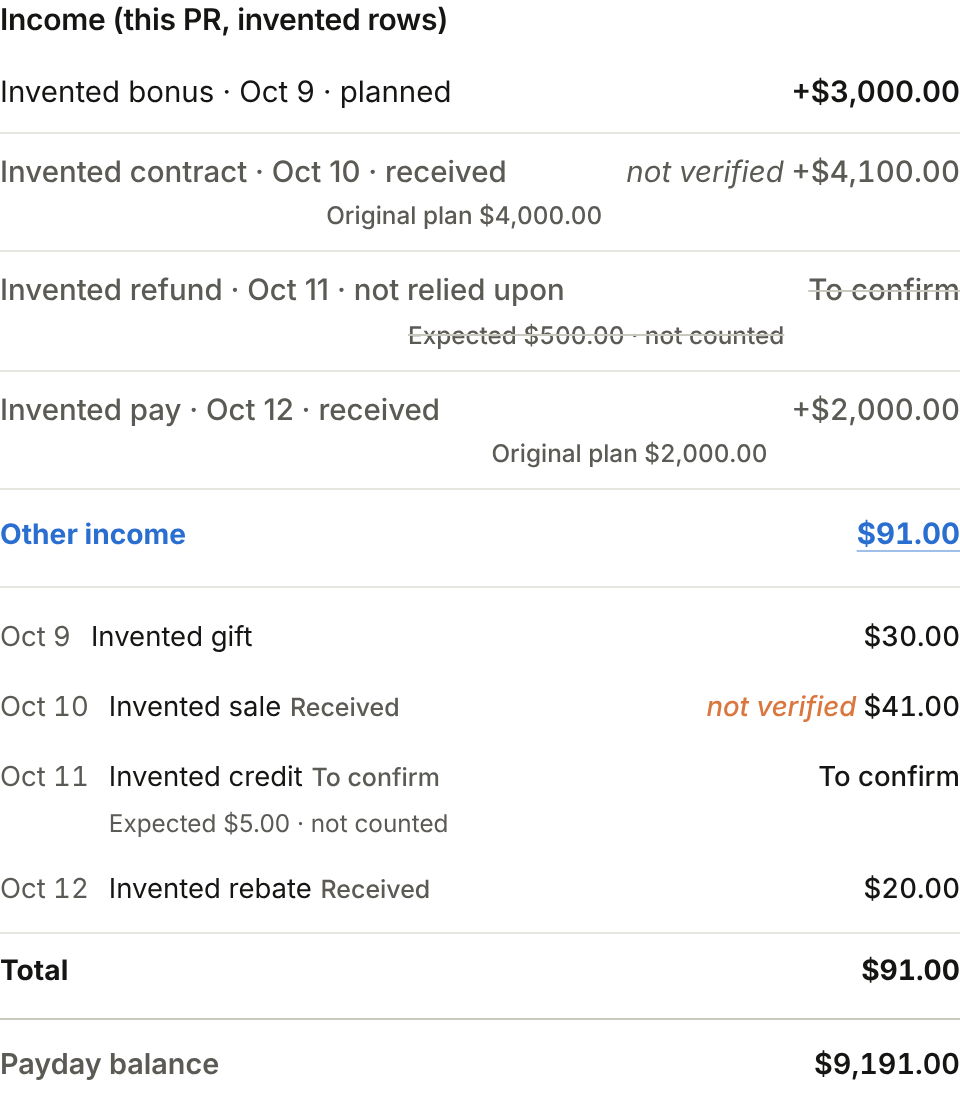
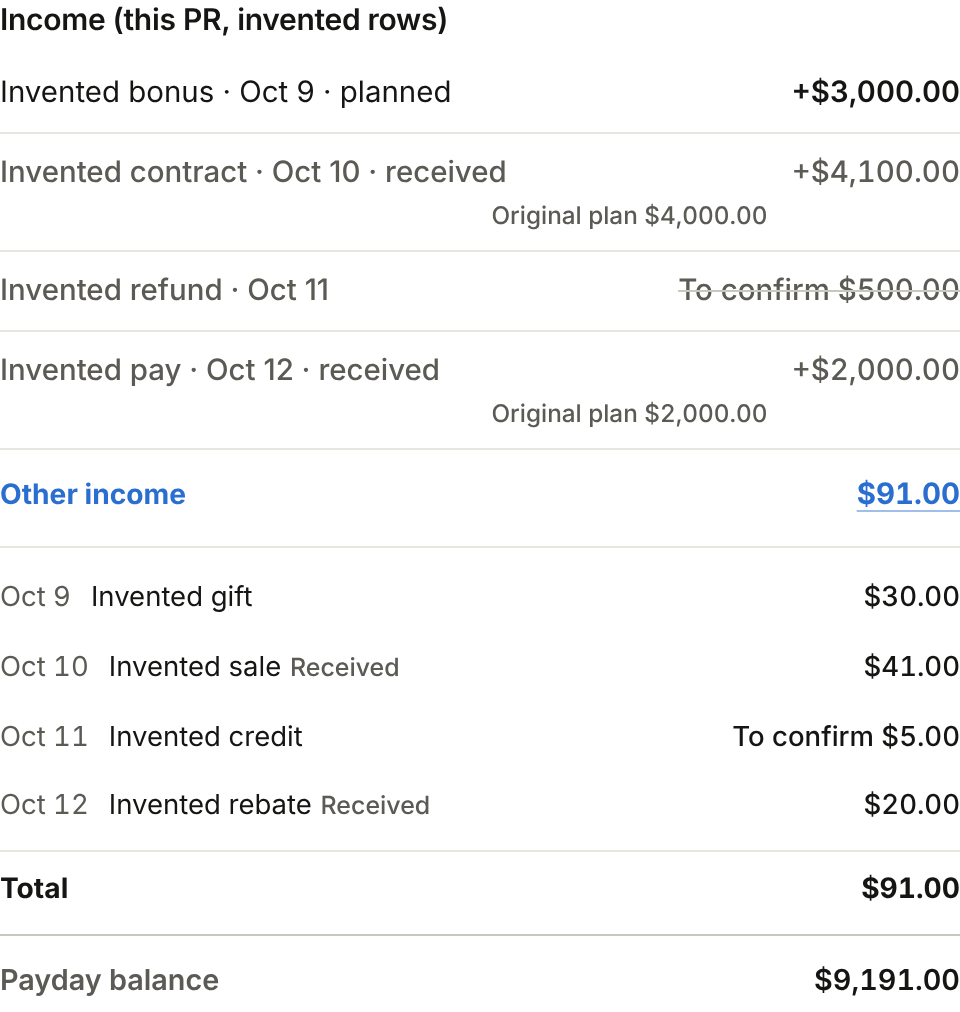
Update the authority row wording and the after screenshot for To confirm $X
Claude-Session: https://claude.ai/code/session_01B4JZd2p62DFEdezmiBAx9p

diff --git a/ARCHITECTURE.md b/ARCHITECTURE.md
@@ -1079,7 +1079,7 @@ closed: `Forecast.expandEvents` is the one cash calendar.
 | Effective date of represented cash movement | `Forecast.representedEventEffectiveBy` qualifies optional `effectiveAsOf` on each `plan.opening.representedEvents` / `opts.representedEvents` entry before the incumbent occurrence rules apply. It means the earliest cash opening proven to include the movement, independently of scheduled due date, intent confirmation or issuer receipt. An explicit date must be a real `YYYY-MM-DD` on or before the cash-walk opening; a later or invalid date cannot suppress replay or publish represented status. Legacy `{id,date}` entries retain their existing assertion that the movement is already inside the attached opening; absence is not a way to encode a newly confirmed post-opening payment. `live-plan` qualifies newly observed names at its fresh live cash date and preserves explicit dates through merges, including inactive deferred names. A duplicate id/date prefers currently applicable proof over an inactive deferred or invalid entry and retains the earlier truthful qualification; an inactive name cannot shadow fresh applicable evidence. Deferred names cannot remove an unproven-inbound hold. Same-day unproven-income guards are rebuilt without treating a prior hold as absence of the occurrence, and a hold remains until applicable proof resolves it. `scripts/reconcile.js` `representedOnOpening` and the `representedEvents` `readCanonical` branch apply that same Forecast qualifier, so posting receipt and canonical-preview classification cannot report a later or invalid date as represented while Forecast still applies the movement. This qualification grants no new settlement identity, minimum-payment intent, issuer-receipt proof or class eligibility, and changes no historical stock. |
 | Hypothetical savings funding timeline | Under the combined owner policy, the bounded location projection lives only on `Forecast.recommend(...).savingsFunding.timeline`, reprinting that run's native cash walk and serial schedule. Projected internal top-ups decrease operating/increase savings equally; current-backed and future-top-up draws consume the single matched expense once; future receipts enter on their modelled date. It grants no actual transfer, account routing, spending or borrowing permission. Unsupported income horizon, cash evidence or draw identity withholds the projection. Historical pre-policy `Forecast.savingsFundingTimeline` remains a dated legacy primitive; the standalone function withholds a rival current combined projection. |
 | Confirmed received-income amounts | `Forecast.incomeReceivedAmount` reuses the incumbent calendar receipt contribution with explicit received status, finite numeric actual and eligible settlement/trust guards. Named income and Other Income detail consumers and `Forecast.budgetPeriodProgress` use the same receipt magnitude; planned amounts are labeled separately. Missing actuals are unavailable, never planned fallback or coerced zero. |
-| Counted period income per row | `Forecast.calendarIncomeContribution` is the one selector that builds period income, the Payday balance (`period.available`) and the Other income total: a To confirm row counts 0, a finite actual counts the actual, otherwise amount before plan. The Budget Income drawer prints this counted value on every line, so the lines tie to the headline; a To confirm row prints "To confirm" with its expected amount labelled not counted. |
+| Counted period income per row | `Forecast.calendarIncomeContribution` is the one selector that builds period income, the Payday balance (`period.available`) and the Other income total: a To confirm row counts 0, a finite actual counts the actual, otherwise amount before plan. The Budget Income drawer prints this counted value on every line, so the lines tie to the headline; a To confirm row counts 0 and prints one "To confirm $X" in its existing not-relied-upon style. |
 | Confirmed goal earmarks and observed savings inventory | `Forecast.savingsEarmarksState` strictly validates physical reserve identities, dated manual history and the narrow owner allocation policy. `Forecast.savingsInventory` retains separately dated provider-reported account stock and historical manual confirmation evidence. After the combined policy becomes effective, those pool assignments are not a rival current allocator: Budget and Plan Spend render `recommend.savingsFunding` through `public/savings-inventory.js`. Existing commitments, yearly bills, group members and `budget-reserve` categories own requirements; none is copied into a second canonical store. Before the policy's effective date, the historical dated policy/evidence applies. Unknown confirmed intent remains unknown; calculated current backing is not manual confirmation or money moved. |
 | The schedule — what is due, when, how often | `Forecast.expandEvents`, via `simulate`, from the `plan` inputs. An unresolved known once cash obligation still on the plan remains binding when Forecast start advances past its reservation date; the event keeps that scheduled date rather than acquiring the caller's start, and the cash walk still deducts the amount at this opening. The coupled `projectDebts` walk applies that same cash obligation at this opening via the same `cashWalkDate`; absorption still keys the original scheduled date, so `recommend` cannot drop the carried amount after caps. Advancing as-of is not settlement evidence. Received once income keeps window semantics. Non-cash once charges keep window semantics so a historical capitalisation is not applied again. Settled once outflows are removed, named on `representedEvents` for this start, or encoded as `firstDue` on the recurring row. Dated occurrences already inside the opening observation may be named on `plan.opening.representedEvents` or `opts.representedEvents` and are omitted only when that date is the simulation start (`plan.opening` only when its `asOf` is that start), except that a live overlay may set `plan.opening.priorAsOf` so represented names in `(priorAsOf, asOf]` also suppress replay. Unrepresented joint-cash outflows in `(priorAsOf, asOf)` remain on `expandEvents` and are applied at this opening via `cashWalkDate`. Unrepresented recurring card-paid reserved bills in that same interval remain on `expandEvents` and are applied at this opening via `cashWalkDate` as reserved gravity; they do not become joint-cash withdrawals. `Forecast.carriedOnceJointCashOutflow` permits an exact older represented id+date to suppress only a past once joint-cash outflow that Forecast still carries at this start; it cannot backfill income, recurring events, non-cash charges, or a merely similar occurrence. `Forecast.prepaidJointCashOutflow` permits an exact represented id+date to suppress a still-upcoming joint-cash obligation or bill occurrence after this start when identity has already named that occurrence, including a capitalising obligation's encoded cash-minimum date which shares that obligation id and is not the non-cash capitalise row; commitments still use `settledOn`. `Forecast.prepaidIncomeOccurrence` is the income mirror: a represented row carrying an explicit `effectiveAsOf` and a `postedOn`, both on or before this start and the posting before the scheduled date, suppresses that exact future scheduled income occurrence because its cash is already inside the opening; legacy id+date rows never settle future income. The unique child-benefit weekend pairing settles the same way, and an ambiguous early receipt is withheld on `notReliedUponEvents` as `early-inbound-ambiguous` rather than counted again. A future represented date is ignored for every other class. That list is opening-date settlement evidence, not a date-wide skip and not a second event engine. A dated commitment cash date is `Forecast.commitmentCashDate`: a stored valid `YYYY-MM-DD` `date` wins; otherwise a single clear month-and-year `when` (`Mon YYYY` or `by Mon YYYY`) is the 15th of that month. Spans, seasons, missing years, `late`/`around`/`early` wording, TBD, Christmas-as-month, and annual fail closed. Pages do not invent a day. A dated commitment may carry `settledOn` (a `YYYY-MM-DD`). `Forecast.commitmentSettledBy` treats that cash requirement as already satisfied only when the date is on or before the simulation start. A live overlay `priorAsOf` lookback still uses that same Forecast opening as the settlement cutoff: a valid `settledOn` on or before this opening is not re-funded merely because the inner expand window starts at the earlier origin. Unrepresented recurring joint-cash bills in `(priorAsOf, asOf)` remain reserved. Unrepresented recurring card-paid reserved bills in that same interval remain reserved. The record stays; its scheduled date does not move. Human-readable historical status is derived from the date's presence. Sinking-fund and estimated-commitment risk use the same helper. `representedEvents` is not used for this. A dated bill may carry `payingAccount`. `Forecast.billIsHouseholdObligation` is true unless the bill is explicitly `householdObligation: false`; paying-account metadata never flips that. `Forecast.billAffectsJointCash` suppresses joint-cash deduction when the paying account is on `plan.startingCash.heldElsewhere`, or when the bill is card-paid (`Forecast.isCardPaidBill`: payingAccount is a known obligation `debtId`, or explicit `jointCash: false` that is not held-elsewhere). No payingAccount, a `breakdown` payer, or an unknown/typo id fail closed and still deduct. A card-paid dated bill is still on `expandEvents` and is reserved on its planning day; it does not deduct chequing and does not capitalise onto the card. An externally paid household obligation still appears on the `expandEvents` schedule and in `Forecast.nextDue`; `Forecast.simulate` and `Forecast.nextPaymentOut` do not treat it as cash leaving the joint pool. A utility account balance is not a bill |
 | A settled bill occurrence's paid / excess state | `Forecast.billPaymentState` compares planned and paid magnitudes in integer cents with zero tolerance (adopted bills blueprint #787 6595179923). A missing or non-cent amount is unknown, never zero. For a represented occurrence with a known actual it publishes the cents paid above plan once, as the row's `excess`, tagged calculated when the planned amount is confirmed and estimated when it is estimated; an unknown, null or absent planned confidence publishes no excess. It never changes the settled status, the remaining amount or any total. Budget only prints it. Partial state is not yet decided here. |
